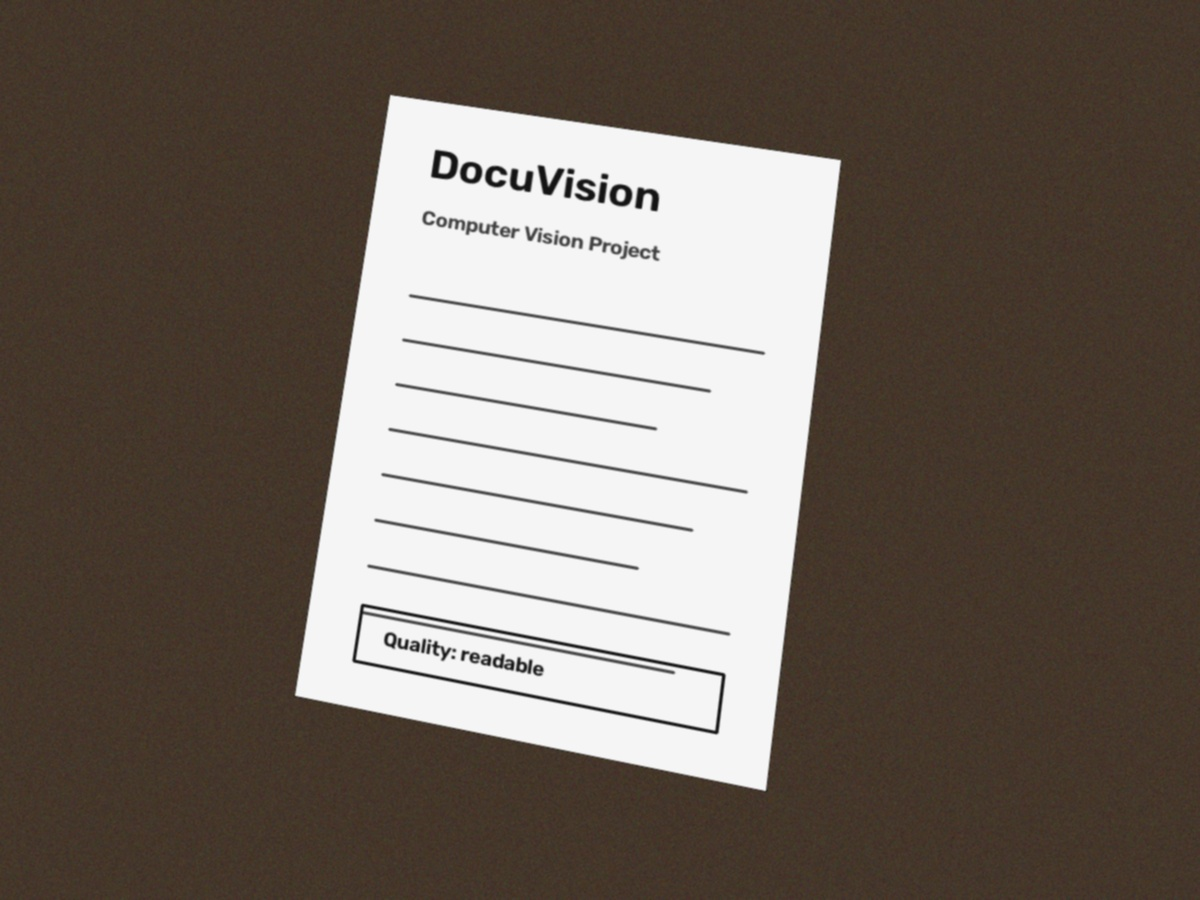
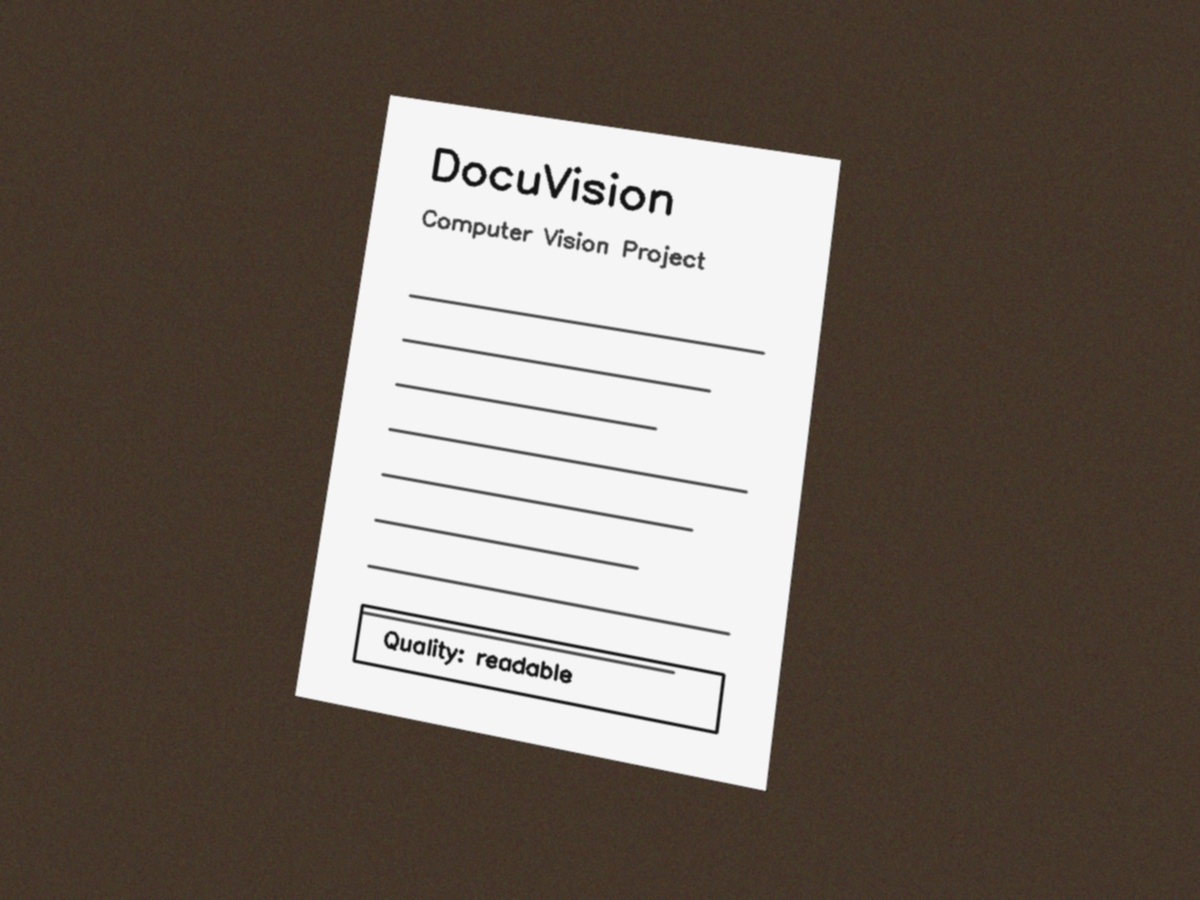
opencv-24BAI10677

Changed region(s): [[0.3392, 0.1556, 0.5858, 0.3111], [0.3083, 0.6844, 0.4933, 0.7778]]

diff --git a/src/docuvision/web.py b/src/docuvision/web.py
@@ -3,7 +3,8 @@
 from __future__ import annotations
 
 import argparse
-import cgi
+import email.policy
+from email.parser import BytesParser
 import json
 import mimetypes
 import os
@@ -536,21 +537,26 @@ class DocuVisionHandler(BaseHTTPRequestHandler):
             _json(self, HTTPStatus.BAD_REQUEST, {"error": "Upload must be between 1 byte and 12 MB."})
             return
 
-        form = cgi.FieldStorage(
-            fp=self.rfile,
-            headers=self.headers,
-            environ={
-                "REQUEST_METHOD": "POST",
-                "CONTENT_TYPE": self.headers.get("Content-Type", ""),
-                "CONTENT_LENGTH": str(content_length),
-            },
-        )
-        item = form["media"] if "media" in form else None
-        if item is None or not item.filename:
+        content_type = self.headers.get("Content-Type", "")
+        raw_body = self.rfile.read(content_length)
+
+        msg_bytes = f"Content-Type: {content_type}\r\n\r\n".encode("latin-1") + raw_body
+        msg = BytesParser(policy=email.policy.default).parsebytes(msg_bytes)
+
+        file_bytes = None
+        filename = None
+
+        for part in msg.iter_parts():
+            if part.get_param("name", header="content-disposition") == "media":
+                filename = part.get_filename()
+                file_bytes = part.get_payload(decode=True)
+                break
+
+        if not filename or file_bytes is None:
             _json(self, HTTPStatus.BAD_REQUEST, {"error": "No image file was uploaded."})
             return
 
-        extension = Path(item.filename).suffix.lower()
+        extension = Path(filename).suffix.lower()
         if extension not in ALLOWED_EXTENSIONS:
             _json(self, HTTPStatus.BAD_REQUEST, {"error": "Unsupported image type."})
             return
@@ -558,7 +564,7 @@ class DocuVisionHandler(BaseHTTPRequestHandler):
         run_id = uuid.uuid4().hex[:12]
         UPLOADS.mkdir(parents=True, exist_ok=True)
         upload_path = UPLOADS / f"{run_id}{extension}"
-        upload_path.write_bytes(item.file.read())
+        upload_path.write_bytes(file_bytes)
 
         output_dir = UI_RUNS / run_id
         try:

diff --git a/README.md b/README.md
@@ -39,47 +39,91 @@ docs/
   diagrams/           Architecture, workflow, use case, class, sequence, ER notes
 ```
 
-## Installation
+## Installation & Setup
 
+### macOS / Linux
+
+#### Option A: Using Conda (Recommended if using Anaconda / Miniconda)
+If your terminal shows `(base)`, you can run directly using Conda:
 ```bash
-python -m venv .venv
-.venv\Scripts\activate
-python -m pip install -r requirements.txt
-python -m pip install -e .
-```
+# Install dependencies into your active environment
+pip install -r requirements.txt
+pip install -e .
 
-## Run the Upload UI
-
-Start the complete project:
-
-```bash
+# Run the app
 python main.py
 ```
 
-Open `http://127.0.0.1:8000` in a browser, upload a document image, and the UI will display the scanned document, quality metrics, and visual report.
-
-## Run the Command-Line Demo
-
+#### Option B: Using standard Python venv
 ```bash
-python main.py --cli
+python3 -m venv .venv
+source .venv/bin/activate
+pip install -r requirements.txt
+pip install -e .
+python3 main.py
 ```
 
-To process your own image from the terminal:
+### Windows
+
+1. **Create and activate a virtual environment**:
+   ```bash
+   python -m venv .venv
+   .venv\Scripts\activate
+   ```
+
+2. **Install dependencies**:
+   ```bash
+   python -m pip install -r requirements.txt
+   python -m pip install -e .
+   ```
+
+## Usage
+
+> **Note:** Ensure your virtual environment is active before running commands (`source .venv/bin/activate` on macOS/Linux or `.venv\Scripts\activate` on Windows).
+
+### 1. Run the Web Upload UI
+
+Start the application server:
 
 ```bash
-python main.py --cli --input path/to/document.jpg
+# macOS / Linux
+python3 main.py
+
+# Windows
+python main.py
 ```
 
-Generated files:
+Open **`http://127.0.0.1:8000`** in your browser (Safari, Chrome, etc.), upload a document photo, and the UI will display:
+- The scanned and perspective-corrected document
+- Real-time quality metrics (Brightness, Contrast, Sharpness, Skew angle)
+- Step-by-step visual pipeline report
 
-- `outputs/scanned_document.png`
-- `outputs/visual_report.png`
-- `outputs/quality_report.json`
+### 2. Run the Command-Line Interface (CLI)
+
+Run the demo on the built-in sample document:
+
+```bash
+python3 main.py --cli
+```
+
+To process your own image directly from the terminal:
+
+```bash
+python3 main.py --cli --input path/to/document.jpg
+```
+
+Generated files are saved to the `outputs/` directory:
+
+- `outputs/scanned_document.png` - Final enhanced scan
+- `outputs/visual_report.png` - Multi-stage pipeline visualization
+- `outputs/quality_report.json` - Numerical quality evaluation & validation report
 
 ## Testing
 
+Run unit tests to verify the computer vision pipeline:
+
 ```bash
-python -m unittest discover -s tests
+python3 -m unittest discover -s tests
 ```
 
 ## Screenshots / Results
